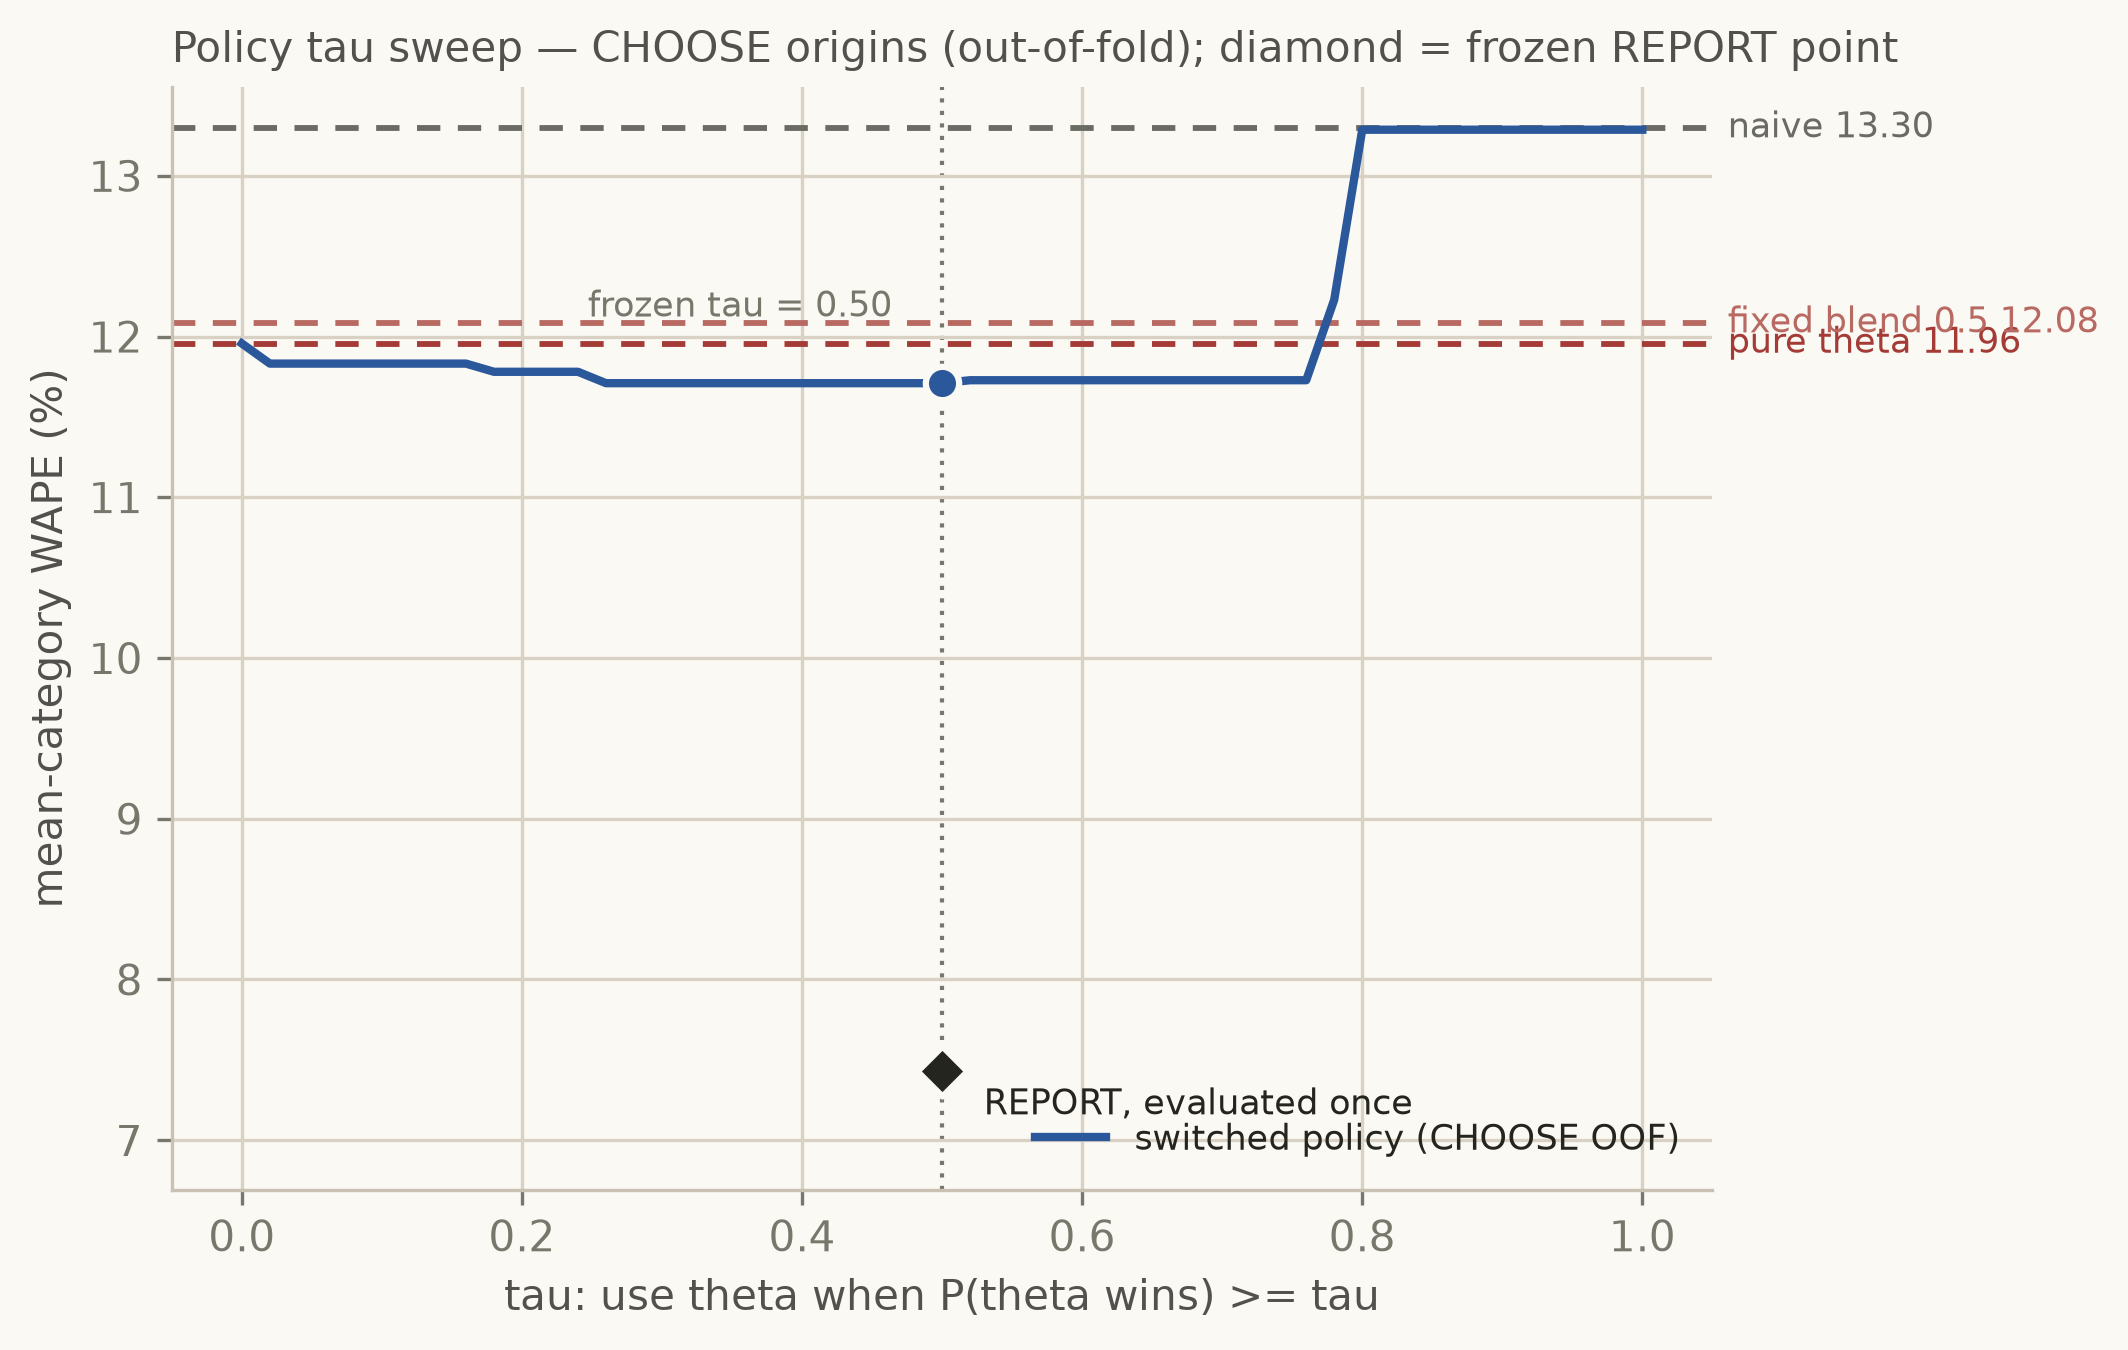
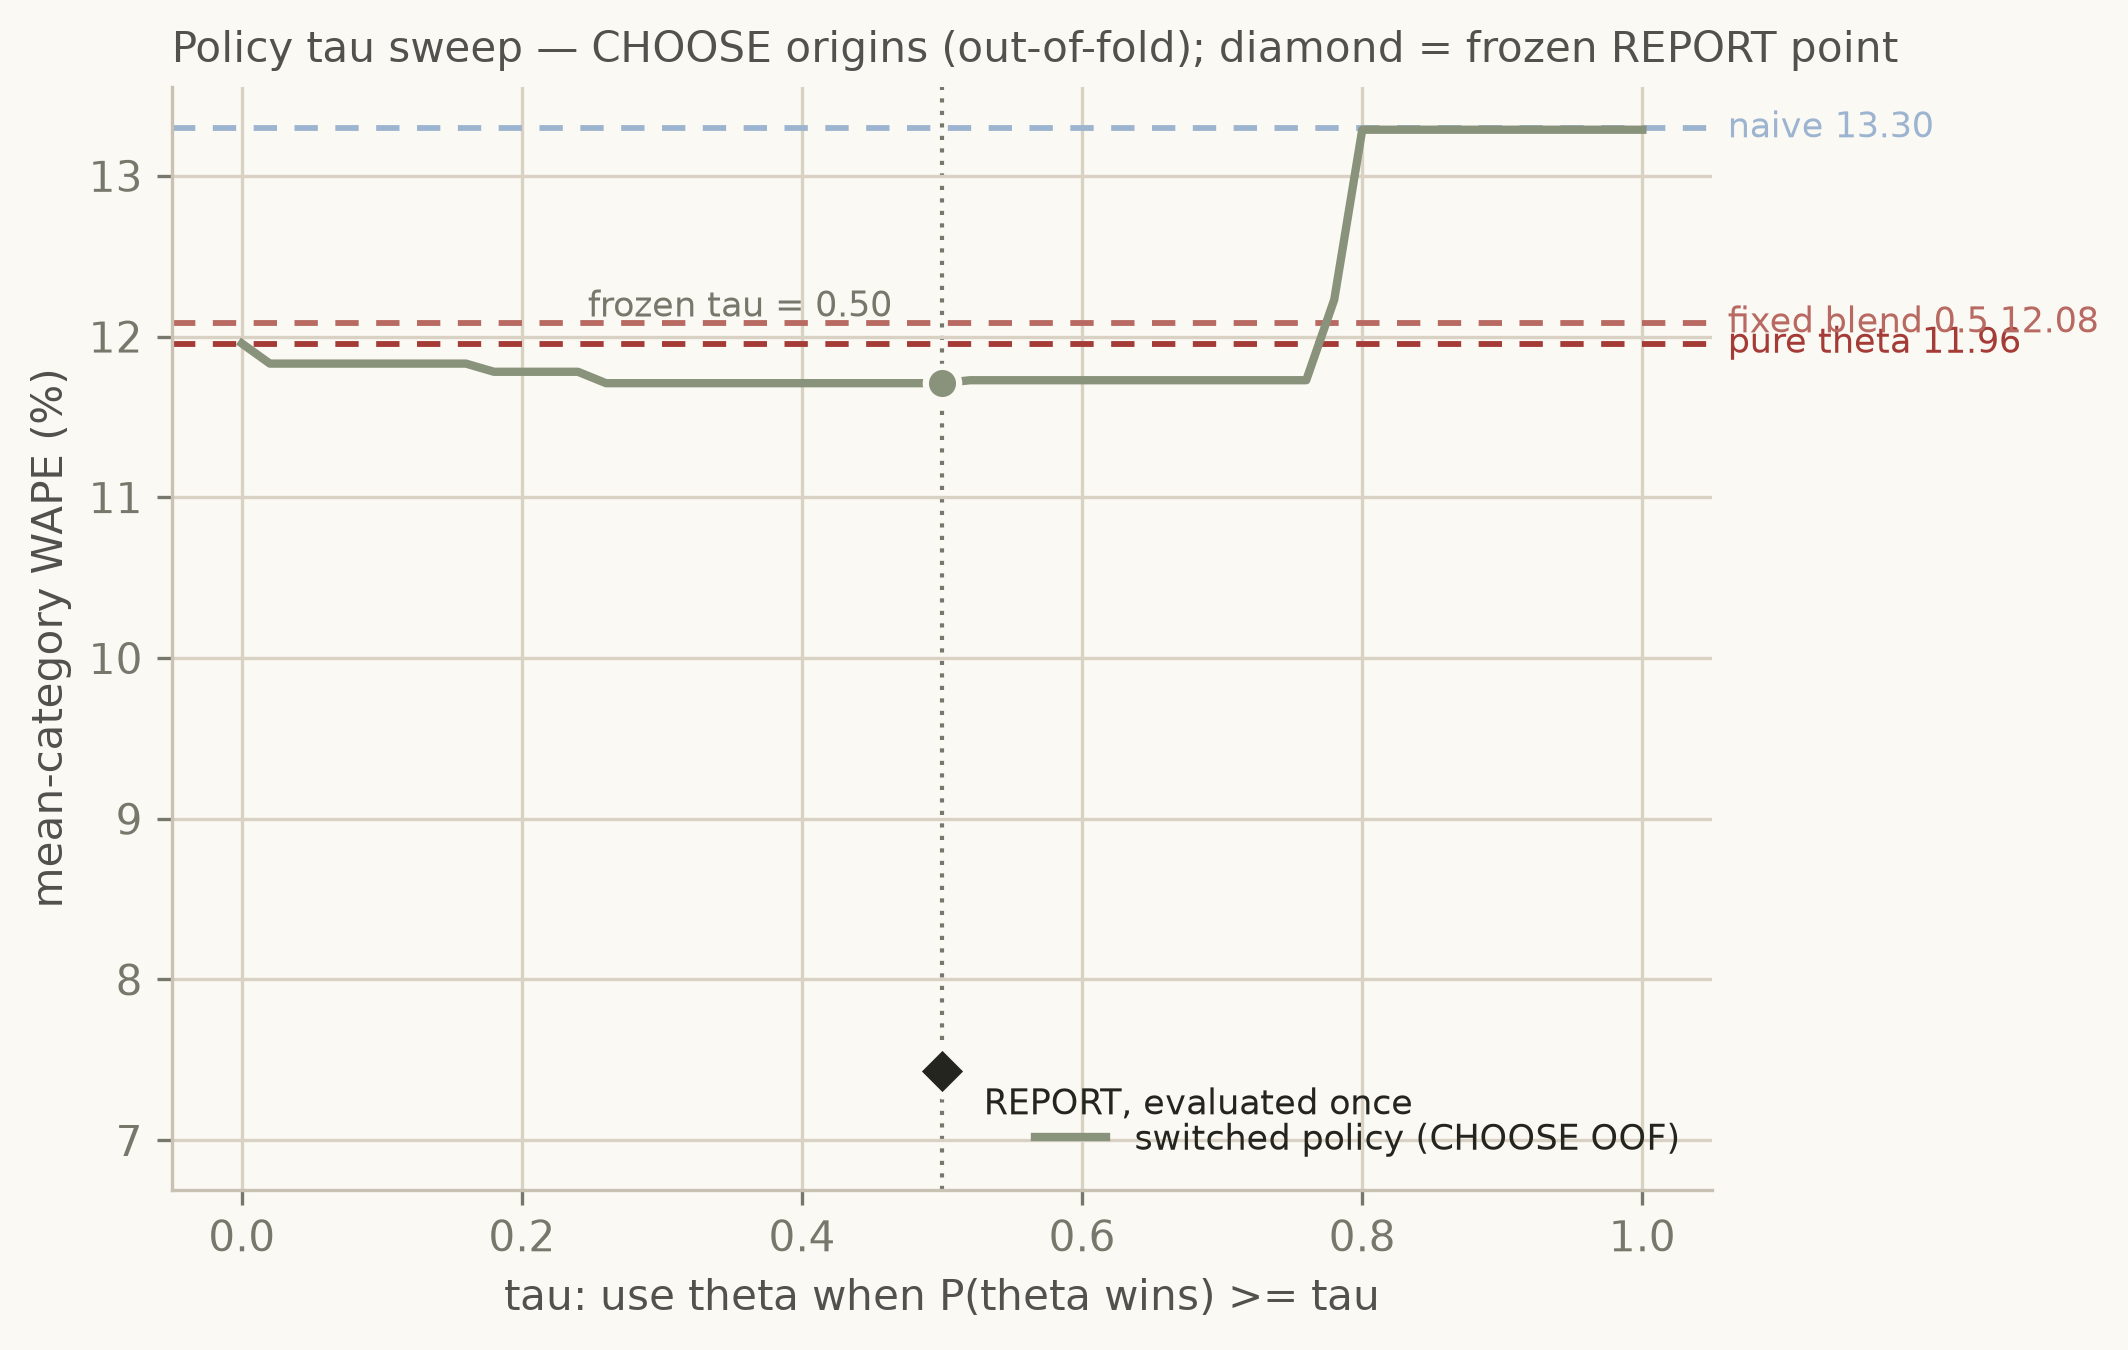
retailpred figures: muted pastel palette (periwinkle, red, sage, apricot)
Owner direction - theme anchors sage + muted red with two soft
complements, captions say sage for the policy bars.

diff --git a/projects.js b/projects.js
@@ -45,13 +45,13 @@ window.portfolioProjects = [
       { p: "Question two: can a decade or two of history predict the 2020s? Theta scored 8.09/8.02/8.03% mean-category WAPE with 10y/20y/full windows — ten years is enough, two decades add nothing. What moved predictability was phase, not window: theta halved naive's error on 2021 targets (7.9% vs 16.8%), and naive re-took the lead on 2023-target folds (6.86% vs ~7.3%). Adaptive methods own the volatile phase; naive owns the settled tail. The 2020s are also a noisier data regime independent of volatility — preliminary→final revision magnitudes remain ~60% larger than the 2010s (median 1.96% → 3.17%)." },
       { k: "chapter 07 · policy layer", t: "the switch" },
       { p: "The policy: a capped LightGBM classifier on causal, point-in-time features (trend strength, volatility, revision churn, lagged performance), isotonic-calibrated on leave-one-origin-out CHOOSE scores, calling naive or theta per category and origin when P(theta wins) clears a predeclared τ = 0.50. Trained on 77 CHOOSE pairs, then evaluated once on the report window — n = 99 pairs (9 origins × 11 categories), every uncertainty an origin-block bootstrap CI over 2,000 resamples." },
-      { img: "assets/retailpred-policy-categories.png", caption: "per-category WAPE delta, naive minus policy, on the report window; positive (indigo) means the policy was better. ten of eleven categories improved, and the one loss is sporting goods (−1.55pp).", alt: "horizontal bar chart of the WAPE delta per category on the report window; ten indigo positive bars and one crimson negative bar for sporting goods" },
+      { img: "assets/retailpred-policy-categories.png", caption: "per-category WAPE delta, naive minus policy, on the report window; positive (sage) means the policy was better. ten of eleven categories improved, and the one loss is sporting goods (−1.55pp).", alt: "horizontal bar chart of the WAPE delta per category on the report window; ten sage positive bars and one crimson negative bar for sporting goods" },
       { p: "It beat naive in 10 of 11 categories (7.43% vs 10.51%, +3.08pp, CI +0.70..+5.13) and beat the fixed 0.5/0.5 blend (7.77%). It did not beat pure theta (7.02%) — the entire delta CI sits below zero (−0.59..−0.21), so guardrail 2 failed and the predeclared rule earned a findings document, not a promotion." },
       { img: "assets/retailpred-policy-tau-sweep.png", caption: "the frozen τ = 0.50 sits in the flat bottom of the CHOOSE out-of-fold sweep (11.71%); the diamond is the single frozen REPORT pass (7.43%) — the sweep's floor does not transfer across the regime boundary.", alt: "line chart of policy mean-category WAPE across the tau sweep with dashed reference lines for naive, pure theta, and the fixed blend, and a diamond marking the frozen report evaluation" },
       { p: "The diagnosis is structural: the report window is single-regime (theta wins 72.7% of pairs there), and a switch has no surface to pay off when one model is already near-ceiling. The measured defect is calibration — Brier 0.155 on CHOOSE OOF degraded to 0.276 on REPORT, worse than always calling theta at the 72.7% base rate. Theta-call quality on REPORT: precision 0.716, recall 0.806." },
       { k: "chapter 08 · open questions", t: "what remains open" },
       { p: "The serving decision stays fail-closed until a challenger passes a predeclared gate — that has not changed since the first refusal, and nothing in the satellite challenged it. The documented re-open path: accumulate roughly 24 more calm forecast origins (≈ end of 2027), then re-gate with theta as a third benchmark beside naive and LightGBM." },
-      { img: "assets/retailpred-policy-reliability.png", caption: "reliability of P(theta wins): CHOOSE out-of-fold deciles (indigo, n=77, Brier 0.155) transfer badly to the report window (diamonds, n=99, Brier 0.276) — worse than always calling theta at the 72.7% base rate. base-rate-robust calibration is the spec for any future policy.", alt: "reliability diagram comparing CHOOSE out-of-fold probability deciles against the frozen report-window deciles, showing the calibration degradation" },
+      { img: "assets/retailpred-policy-reliability.png", caption: "reliability of P(theta wins): CHOOSE out-of-fold deciles (sage, n=77, Brier 0.155) transfer badly to the report window (diamonds, n=99, Brier 0.276) — worse than always calling theta at the 72.7% base rate. base-rate-robust calibration is the spec for any future policy.", alt: "reliability diagram comparing CHOOSE out-of-fold probability deciles against the frozen report-window deciles, showing the calibration degradation" },
       { p: "The research agenda the policy layer left behind is specific: a switch only pays on regime-mixed windows, so any future attempt needs evaluation windows that actually mix regimes — and a calibrator that survives base-rate movement between windows. Isotonic on 77 out-of-fold rows collapsed to a single step and transferred badly across the regime boundary; base-rate-robust calibration is the spec for whoever tries next. Everything above is recorded, versioned, and linked — including the parts that failed. Especially those." },
       { k: "chapter 09 · the receipt surface", t: "six governed views" },
       { p: "The numbers above all survive one more layer: a governed BI boundary that turns frozen evaluation evidence into contract-checked CSV extracts and a Tableau workbook — now six views. View 06, MRTS research windows, is new: it carries exactly the nine window × model rows behind this chapter's figures, every row labeled with its origin count and source artifact, colored by whether it beats naive. The workbook (bi/tableau/retailpred_v2.twb) is a tracked local artifact — schema-checked, fail-closed before publication, and republished to Tableau Public on an explicit manual cadence. The site shows the six views as governed cards with the published view 06 embedded, and it gained a lab: the same frozen bundles, re-run in your browser — press the gate criteria yourself, drag the policy's threshold across the frozen sweep, and watch a revision happen. Nothing on it is a served model." },
